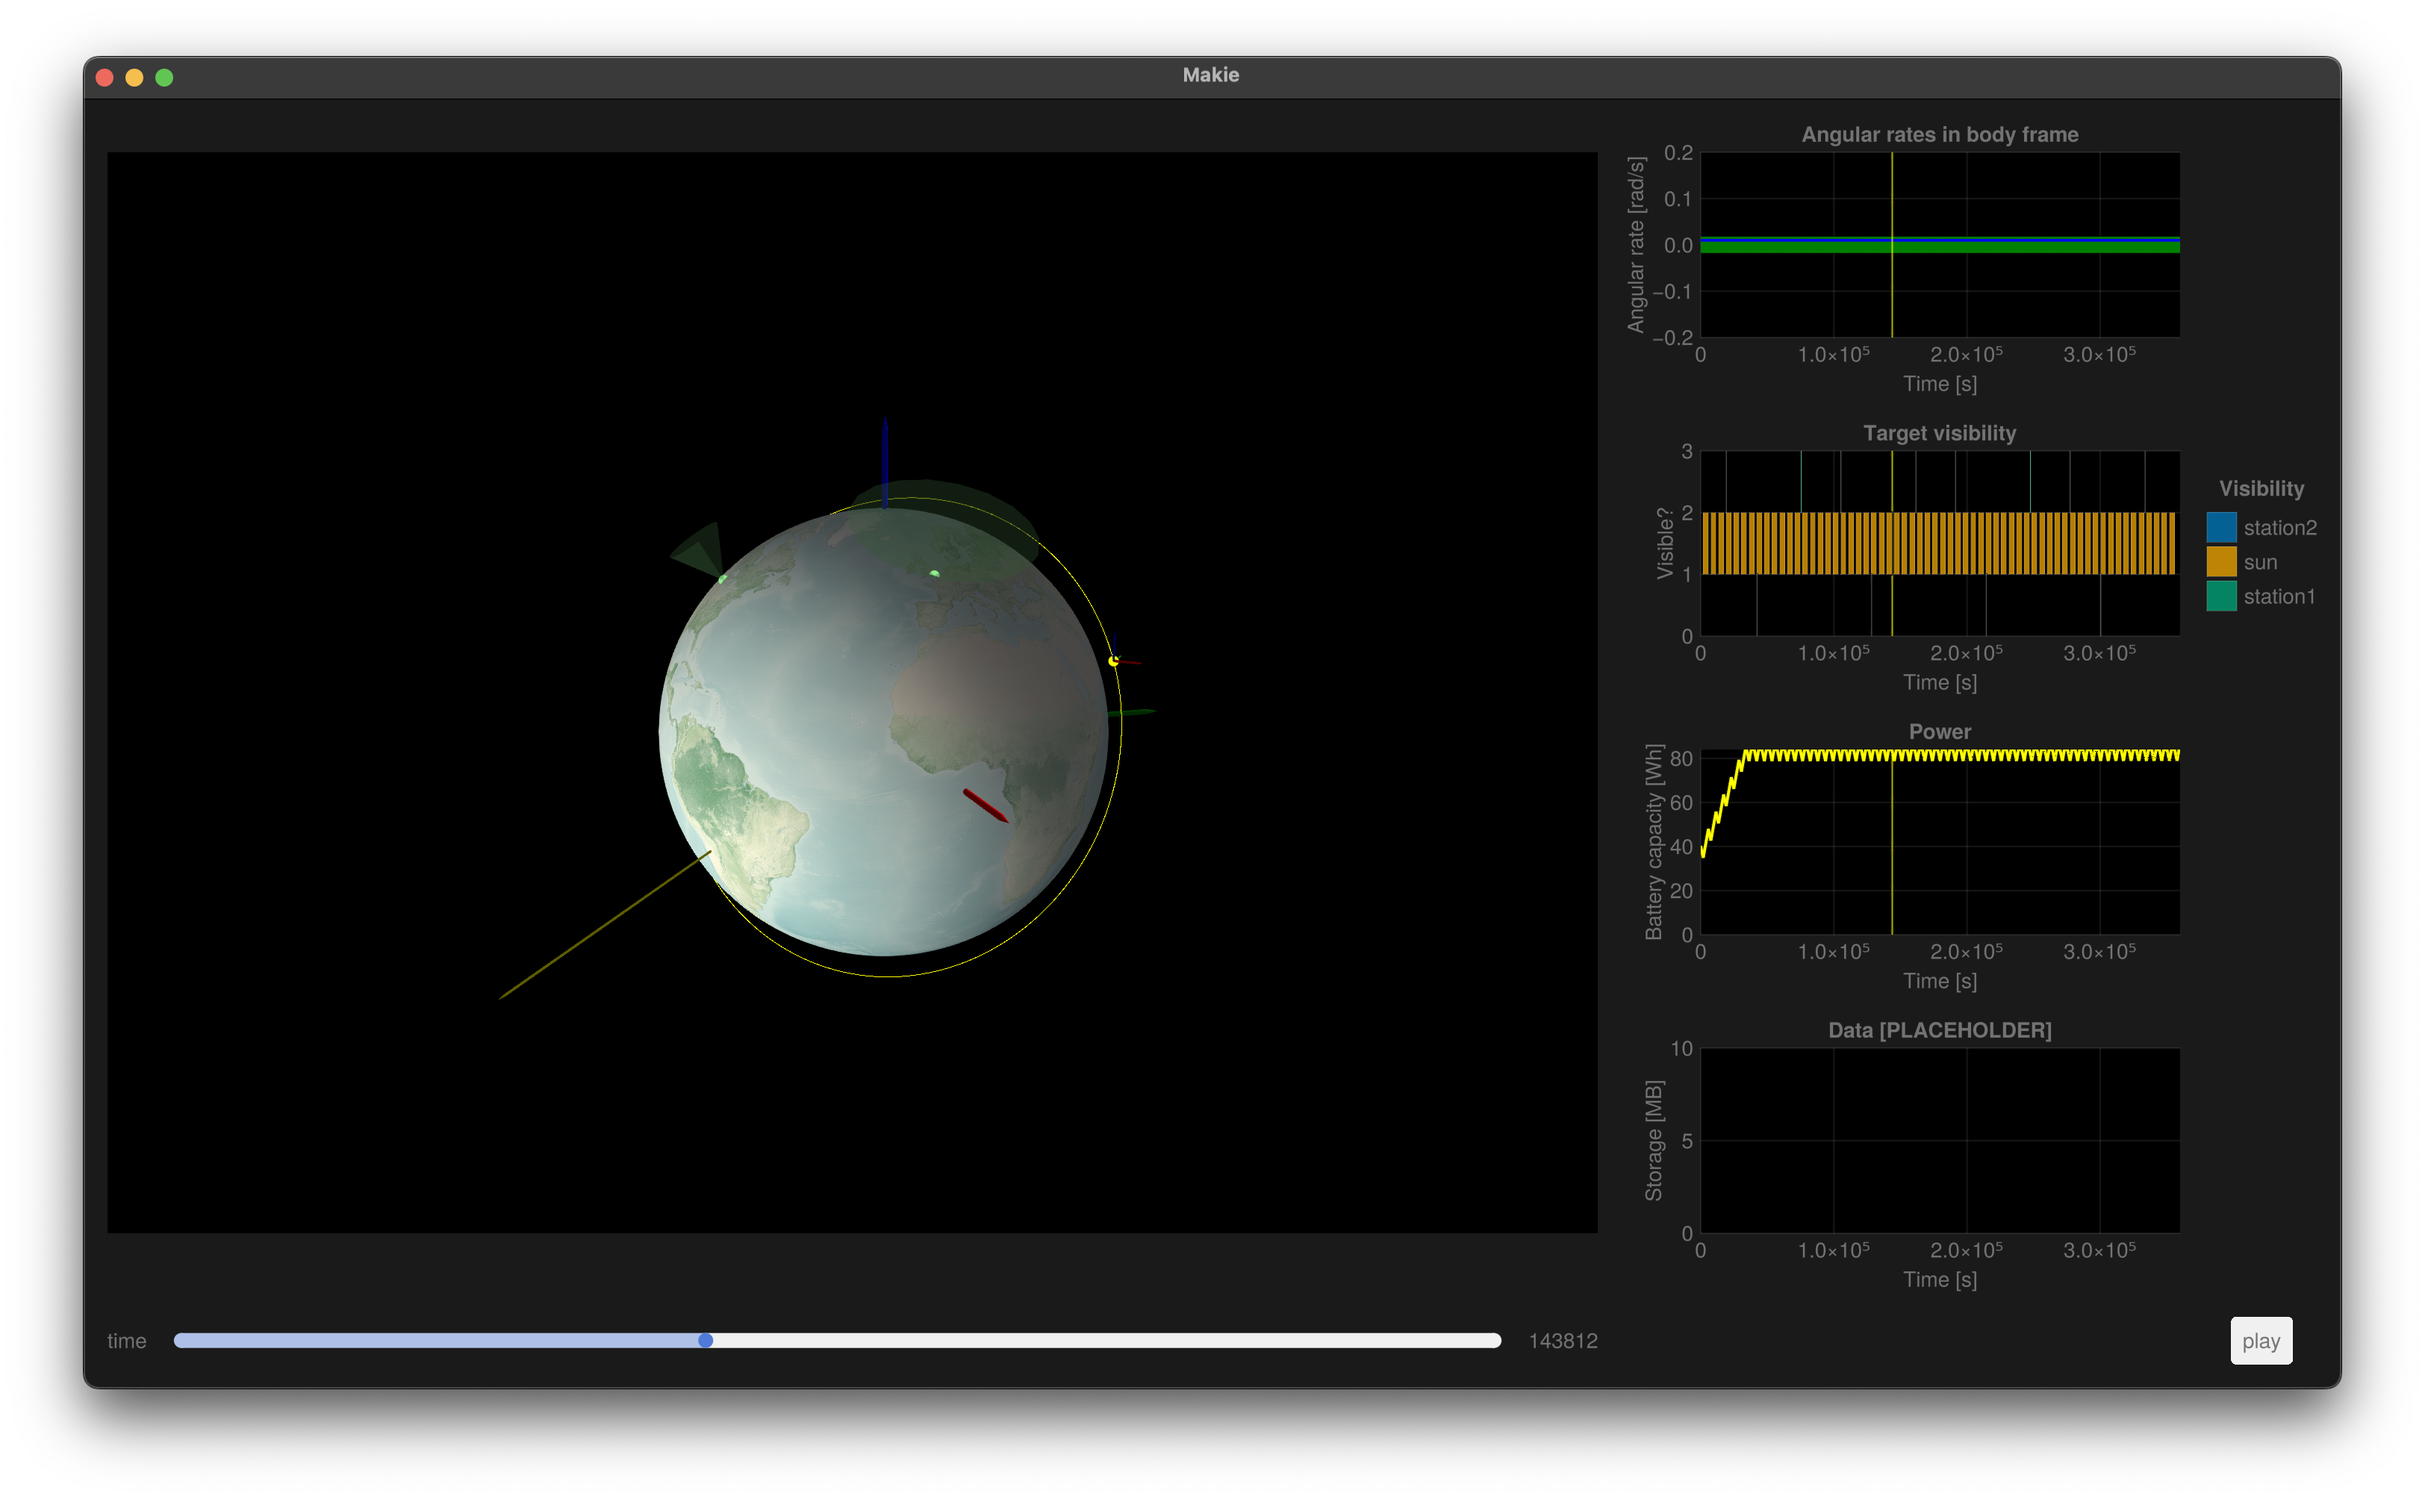
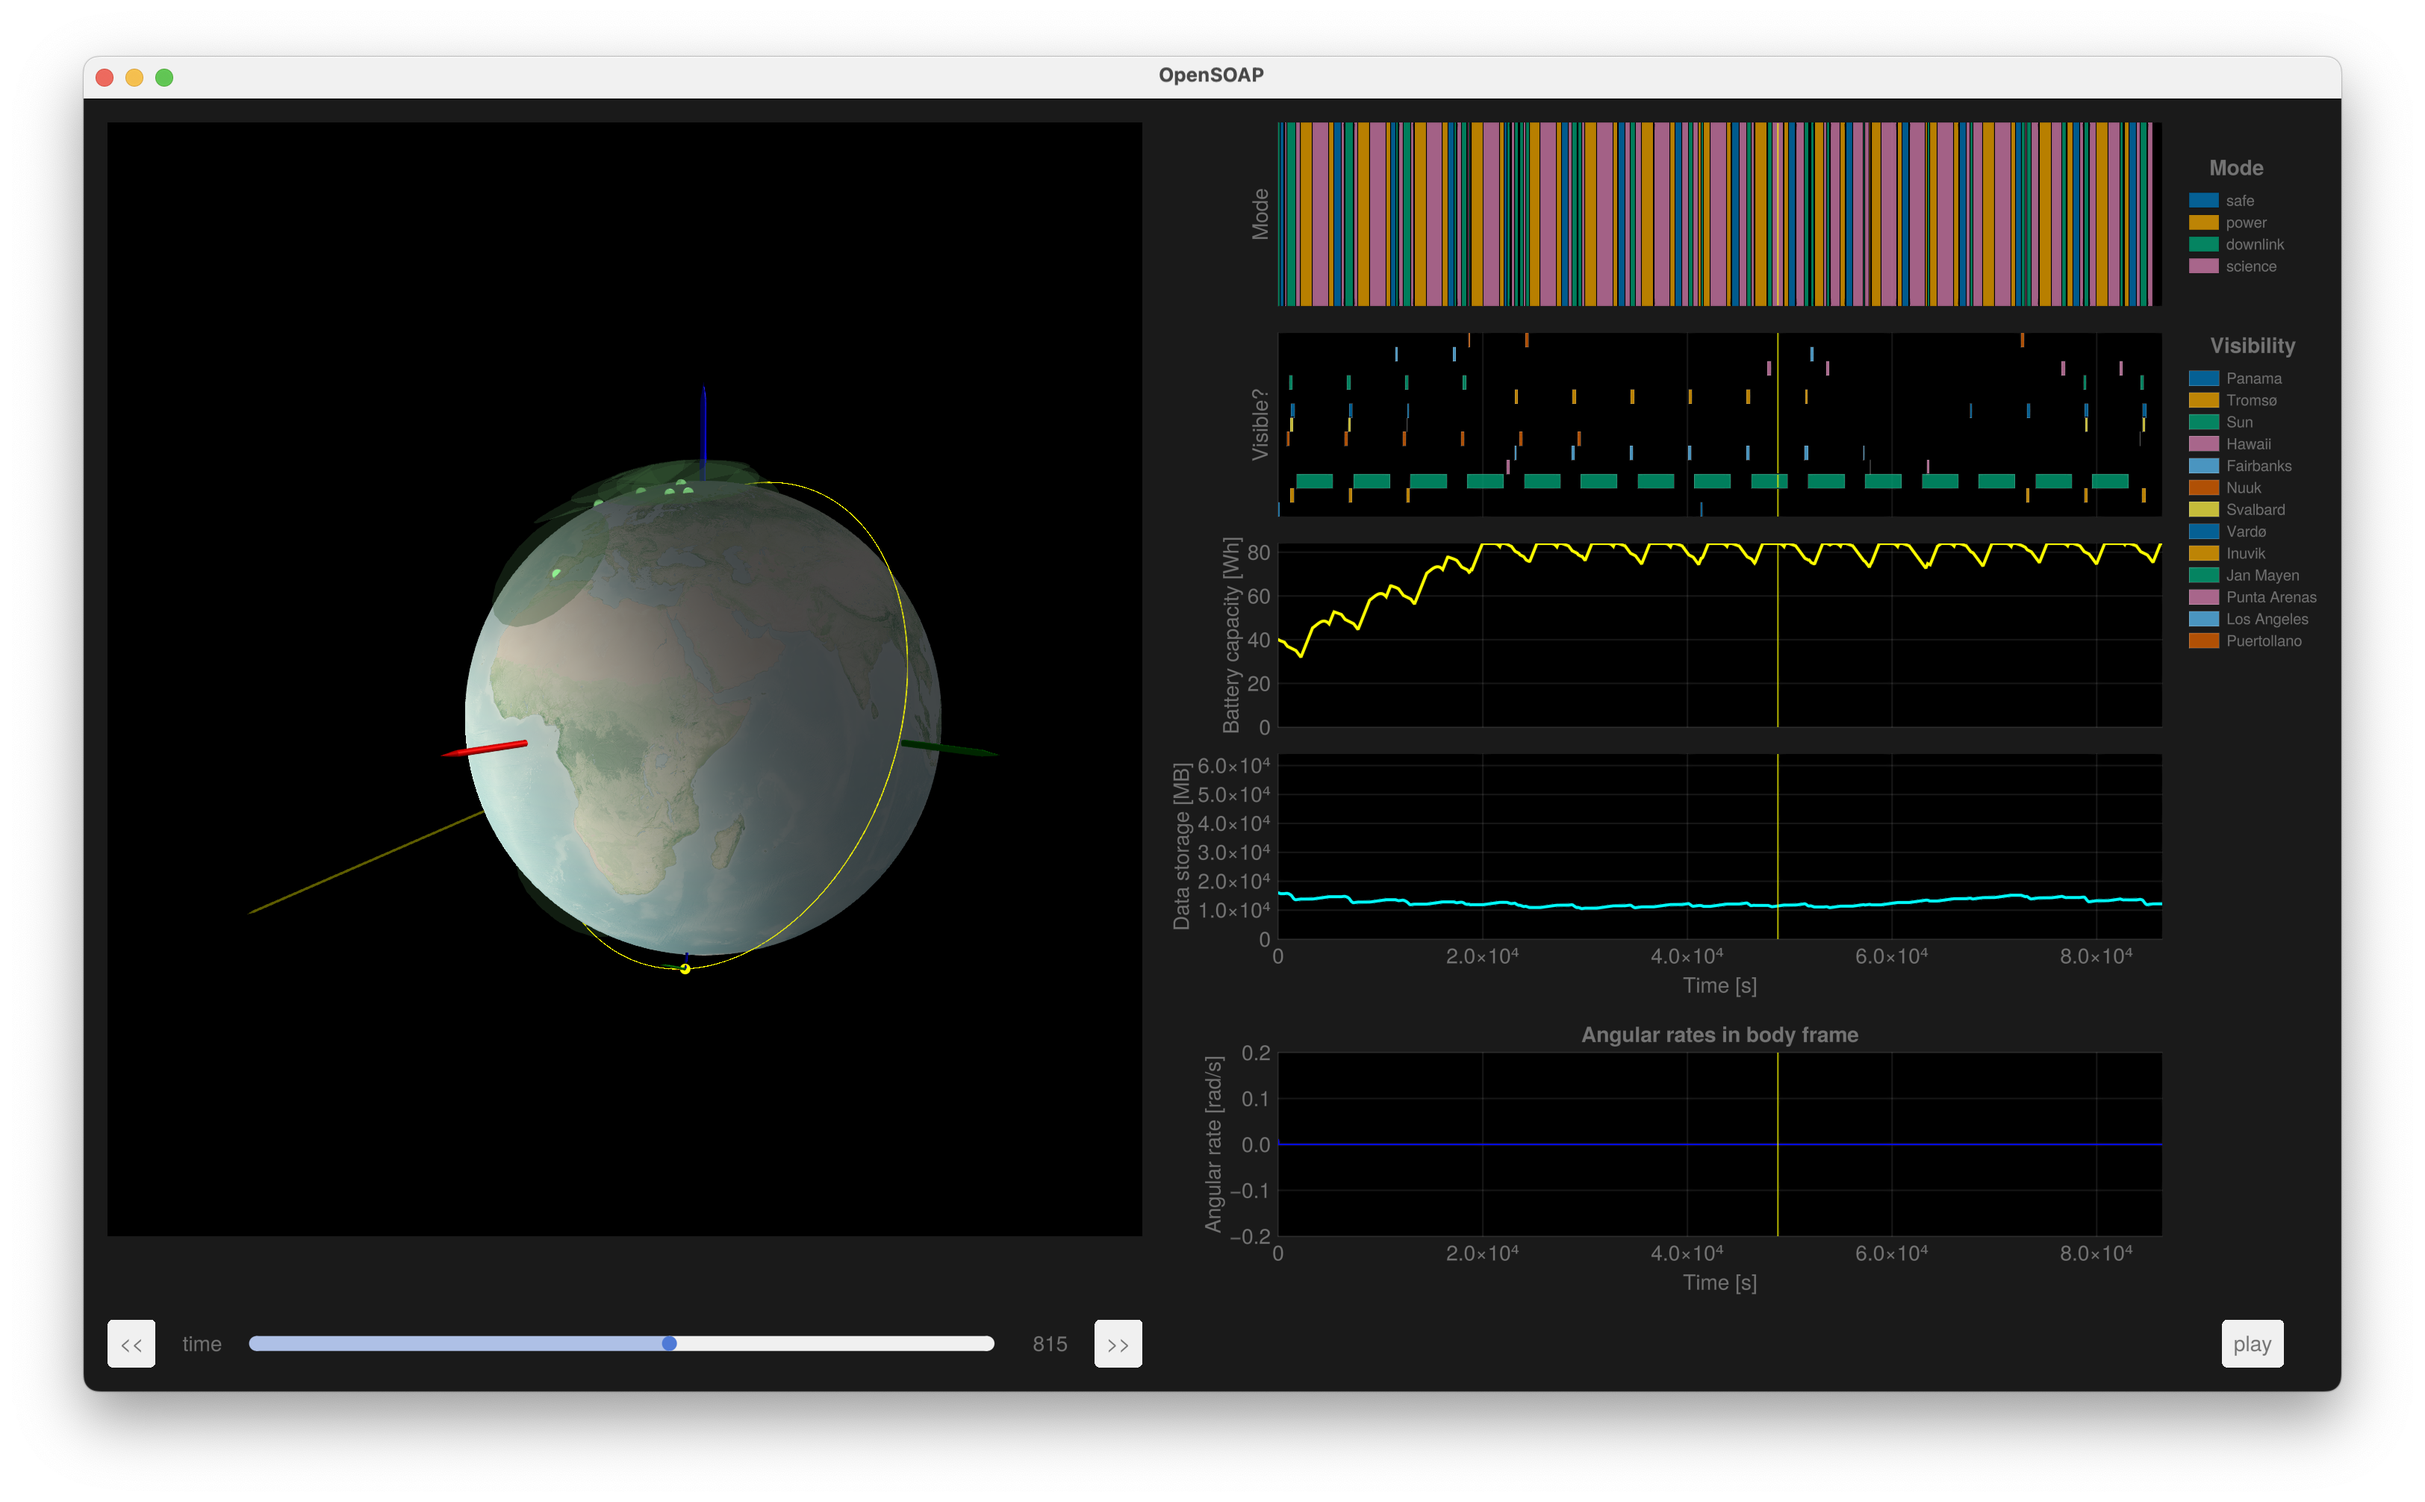
updating README and screenshot

diff --git a/README.md b/README.md
@@ -36,8 +36,8 @@ And detail 2D plots:
 - scroll + `X` key to zoom x-axis only
 - scroll + `Y` key to zoom y-axis only
 - ctrl + left-click on plot to reset view
-- 
-There is a scrollbar along the bottom to advance time.
+
+There is a scrollbar along the bottom to advance time. The neighboring arrow buttons increment/decrement timestep.
 
 ### An example display:
 ![mission simulation](assets/example_screenshot.png?raw=true)
